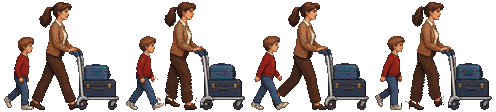
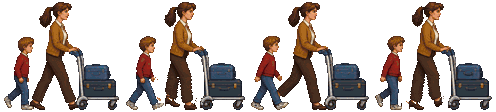
fix: remove transparent tears from the airport lady walk
Ignore faint resampling remnants when preserving foreground pixels and reconstruct the trouser cuff hidden by the child's trainer. Regenerate both family sheets with the shared Hall palette and assert continuous legs in passing poses.

diff --git a/scripts/assets/stride.ts b/scripts/assets/stride.ts
@@ -246,14 +246,35 @@ export function animateMotherStride(
 
   for (const [frame, pass] of Object.entries(PASSES)) {
     const ox = Number(frame) * cellWidth;
-    // Whatever is still opaque is the boy, the trolley or her upper body.
+    // Preserve the boy in front of her back leg, but not the near-transparent
+    // resampling fringe left at the trousers' old position. Treating any alpha
+    // as occupied punches that old outline through the moved leg.
     const occupied = new Uint8Array(data.length / 4);
     for (let i = 0; i < occupied.length; i++) {
-      occupied[i] = data[i * 4 + 3] ? 1 : 0;
+      occupied[i] = data[i * 4 + 3] > 128 ? 1 : 0;
     }
     const paint = (leg: Pixel[], shear: number, length: number) => {
       const rows = new Map<number, Pixel[]>();
       for (const p of leg) rows.set(p.y, [...(rows.get(p.y) ?? []), p]);
+      // The child's trainer hides a few pixels inside the trouser cuff. Once
+      // that leg moves, the hidden fabric is exposed. Reconstruct small gaps
+      // near the ankle on the leg layer; leave the child in the foreground.
+      for (const [y, row] of rows) {
+        if (y < at(90) || y > ankleY) continue;
+        row.sort((a, b) => a.x - b.x);
+        const solid: Pixel[] = [];
+        for (const p of row) {
+          const previous = solid[solid.length - 1];
+          if (previous && p.x - previous.x <= at(4)) {
+            for (let x = previous.x + 1; x < p.x; x++) {
+              const nearest = x - previous.x <= p.x - x ? previous : p;
+              solid.push({ x, y, rgba: nearest.rgba });
+            }
+          }
+          solid.push(p);
+        }
+        rows.set(y, solid);
+      }
       const last = Math.max(...rows.keys()) - hipY;
       // Walk the destination rows and pick one source row for each, so a
       // shortened leg drops whole rows rather than overlapping them.

diff --git a/scripts/assets/__tests__/passengers.test.ts b/scripts/assets/__tests__/passengers.test.ts
@@ -11,6 +11,29 @@ const sheets = [
 
 describe("shipped family walk artwork", () => {
   test.each(sheets)(
+    "passing poses have solid trouser legs without transparent slits ($path)",
+    async ({ path, scale }) => {
+      const image = await readImage(path);
+      for (const frame of [1, 3]) {
+        for (let y = 90 * scale; y < 97 * scale; y++) {
+          // Below the child's hand, each trouser leg is a continuous run.
+          // Stop before the trolley wheel. A third run is a tear inside a
+          // leg, not the gap between the legs.
+          let runs = 0;
+          let opaque = false;
+          for (let x = 39 * scale; x < 70 * scale; x++) {
+            const i = (y * image.width + frame * 124 * scale + x) * 4;
+            const next = image.data[i + 3] > 128;
+            if (next && !opaque) runs++;
+            opaque = next;
+          }
+          expect(runs, `frame ${frame}, row ${y}`).toBe(2);
+        }
+      }
+    },
+  );
+
+  test.each(sheets)(
     "the mother's feet come together between contact poses ($path)",
     async ({ path, scale }) => {
       const image = await readImage(path);

diff --git a/scripts/assets/passengers.ts b/scripts/assets/passengers.ts
@@ -19,9 +19,7 @@ const specs = [
 const palette = fixedColoursFrom(
   await Promise.all(
     readdirSync(outDir)
-      .filter(
-        (name) => name.endsWith(".png") && !name.startsWith("anim-passenger-"),
-      )
+      .filter((name) => name.endsWith(".png"))
       .map((name) => readImage(join(outDir, name))),
   ),
   256,
